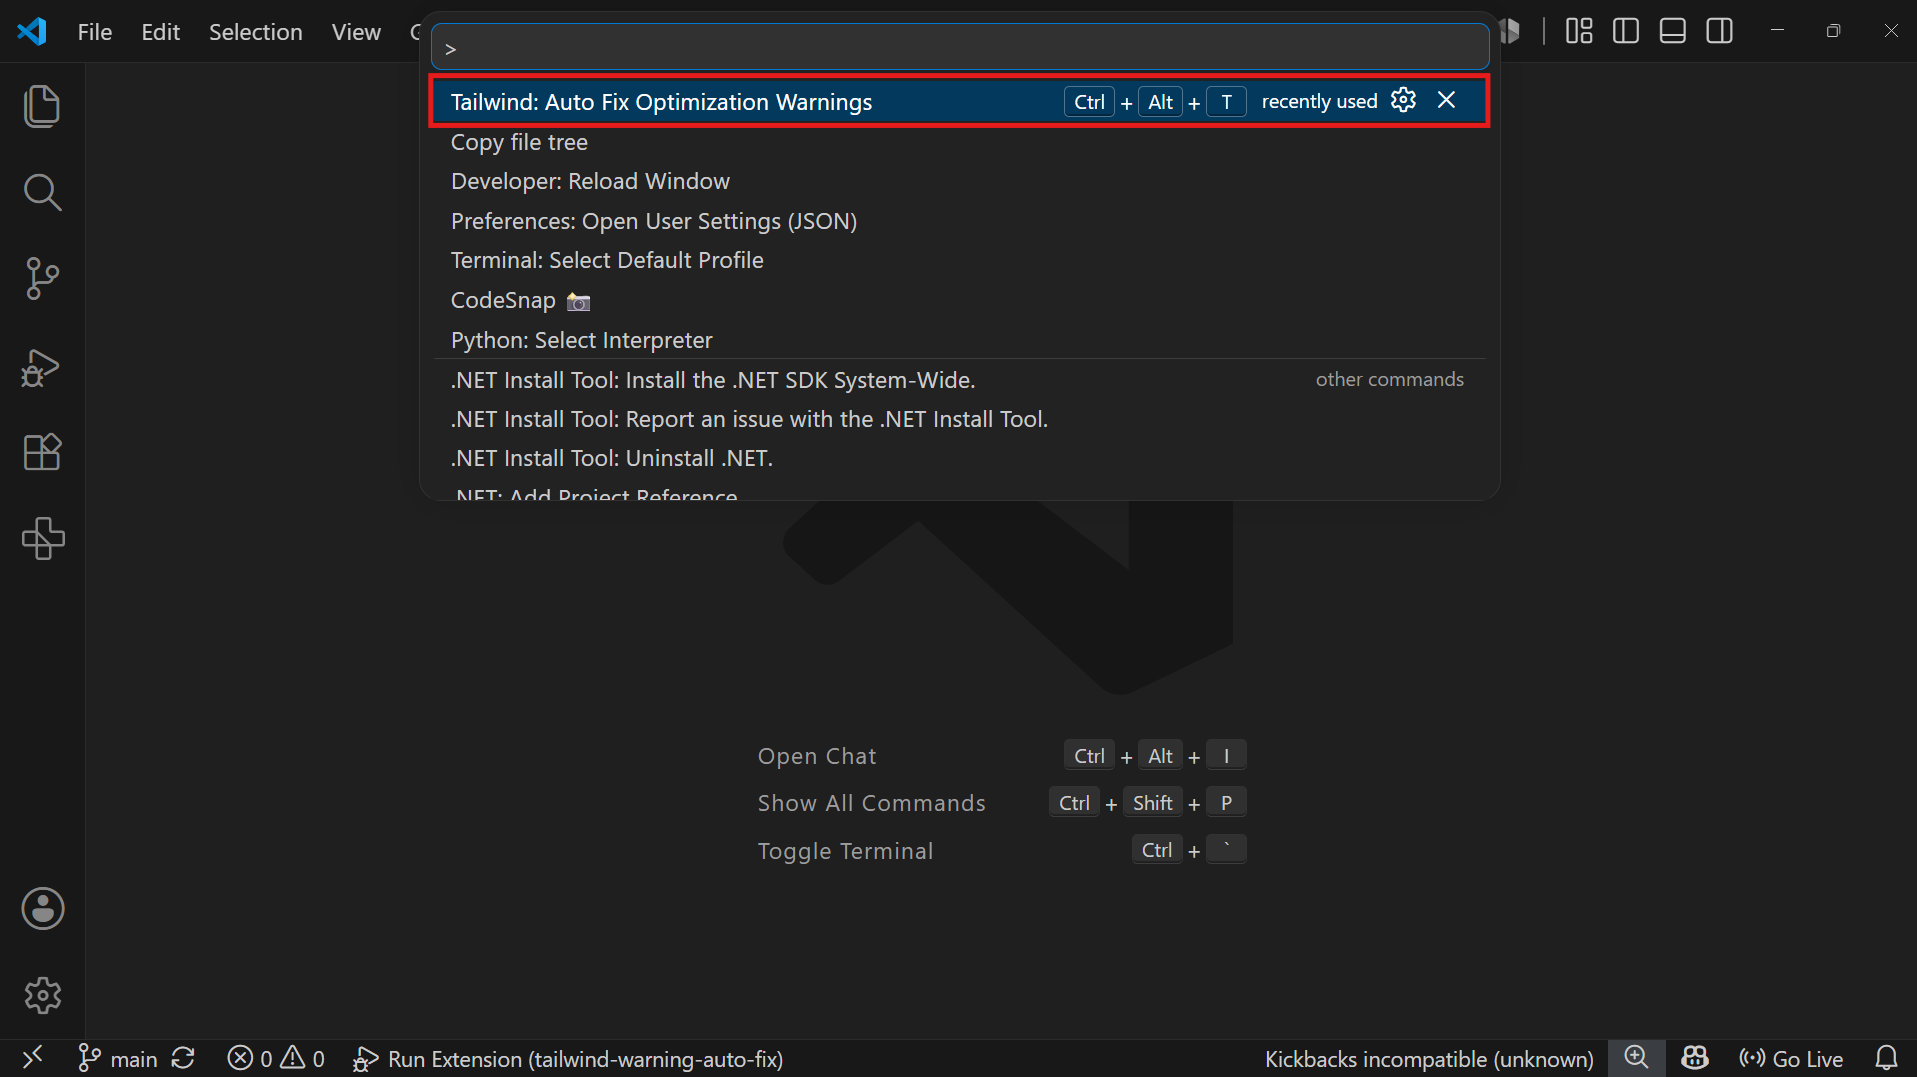
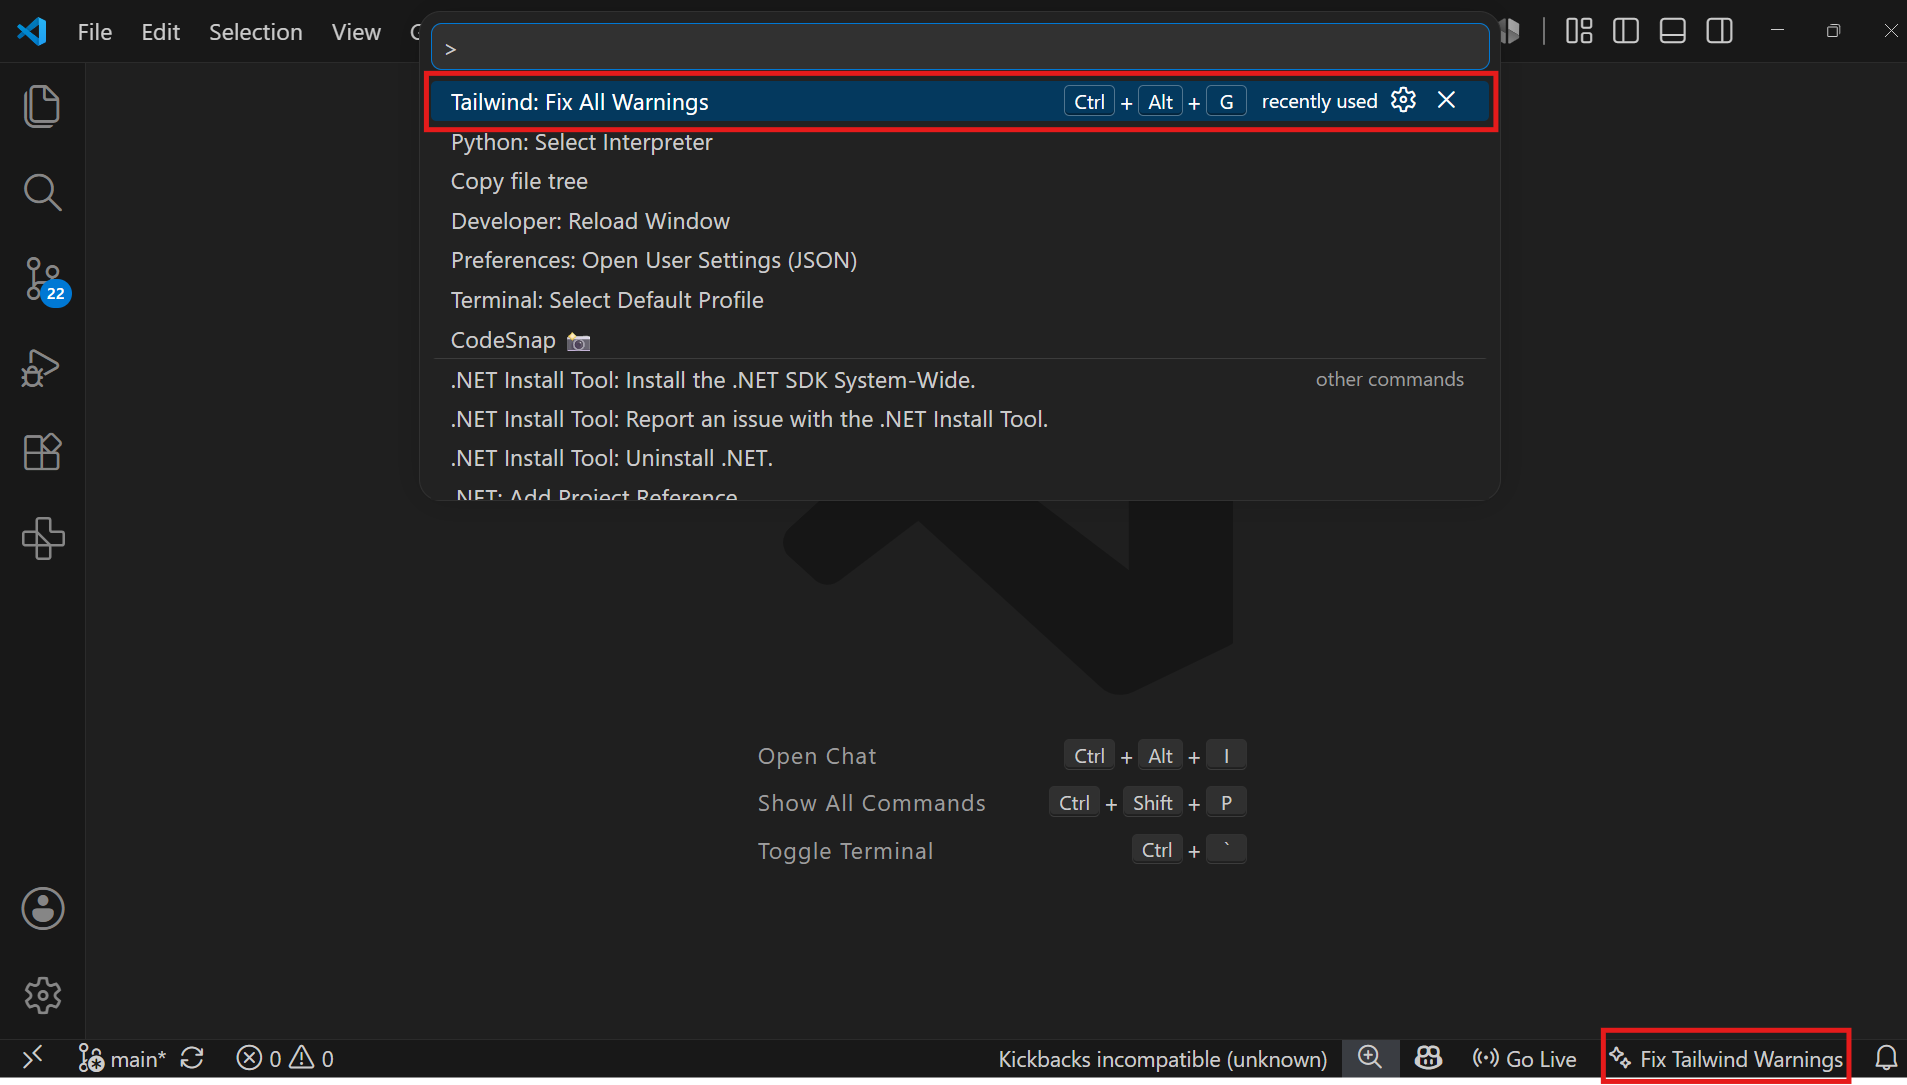
Configure Core Platform Environment And Project Documentation Assets

diff --git a/README.md b/README.md
@@ -2,7 +2,7 @@
 
 Automatically fix every Tailwind CSS optimization warning in the active file with a single command — no more clicking Quick Fix one class at a time.
 
-![Version](https://img.shields.io/badge/version-0.2.0-blue)
+![Version](https://img.shields.io/badge/version-0.4.2-blue)
 ![License](https://img.shields.io/badge/license-MIT-green)
 
 ---
@@ -16,11 +16,17 @@ The class `max-w-[1600px]` can be written as `max-w-400`
 The class `!bg-surface` can be written as `bg-surface!`
 ```
 
+...and sometimes flags class conflicts, like:
+
+```
+'text-left' applies the same CSS properties as 'text-center'.
+```
+
 Fixing these one at a time via the lightbulb Quick Fix menu is tedious in any file with more than a handful of warnings.
 
 ## The Solution
 
-**Tailwind Warning Auto-Fix** reads every optimization warning already produced by Tailwind CSS IntelliSense in the active file and applies all suggested fixes at once, atomically, with full undo support.
+**Tailwind Warning Auto-Fix** reads every warning already produced by Tailwind CSS IntelliSense in the active file and resolves it — automatically for optimizations, interactively for conflicts — in one command, atomically, with full undo support.
 
 It does **not** reimplement Tailwind's optimization logic — it's a thin, safe automation layer over diagnostics that already exist.
 
@@ -31,27 +37,24 @@ It does **not** reimplement Tailwind's optimization logic — it's a thin, safe 
 - ✅ **One command** fixes optimization warnings AND walks you through class conflicts — no separate commands to remember
 - ✅ Fixes **all** Tailwind optimization warnings in the active file automatically, after one confirmation
 - ✅ Interactively resolves **class conflicts** (e.g. `text-left` vs `text-center`) — always asks which class should stay, since these are NOT safe to auto-resolve (see "Optimization vs. Conflicts" below)
-- ✅ Applies everything in a single `WorkspaceEdit` — one Undo (`Cmd/Ctrl+Z`) reverts the entire operation, optimizations and conflict resolutions together
+- ✅ **Auto Fix on Save** (opt-in) — silently fixes optimization warnings every time you save, folded directly into the save itself
+- ✅ Applies everything in a single `WorkspaceEdit` — one Undo (`Cmd/Ctrl+Z`) reverts the entire operation
 - ✅ Uses each diagnostic's exact source range — never a document-wide text search, so it's safe even when the same class string appears multiple times in a file
 - ✅ Works in any file type supported by Tailwind CSS IntelliSense (JS, TS, JSX, TSX, HTML, Vue, Astro, Svelte, PHP, Blade, MDX, and more) — no hardcoded language list
+- ✅ Status bar button and keyboard shortcut available immediately on VS Code startup — no need to run the command once first
 - ✅ Gracefully skips and reports any warning it can't safely parse, instead of failing the whole batch
 
-![Screenshot placeholder: Before/after diff view](./images/screenshot-before-after.png)
+## Optimization vs. Conflicts — why they're handled differently
 
-<!-- ![GIF placeholder: Running the command end-to-end](./images/demo.gif) -->
+Tailwind CSS IntelliSense produces two distinct kinds of warnings, and even though **one command** (and, optionally, Auto Fix on Save) handles both, they're resolved very differently internally:
 
-## Optimization vs. Conflicts — why they're handled differently within the same command
-
-Tailwind CSS IntelliSense produces two distinct kinds of warnings, and even though **one command** now handles both, they're resolved very differently internally:
-
-|             | Optimization warnings                                          | Conflict warnings                                                                                                                                                |
-| ----------- | -------------------------------------------------------------- | ---------------------------------------------------------------------------------------------------------------------------------------------------------------- |
-| Example     | `` The class `max-w-[1600px]` can be written as `max-w-400` `` | `'text-left' applies the same CSS properties as 'text-center'.`                                                                                                  |
-| Meaning     | Two forms that render **identically**                          | Two **different**, mutually exclusive values for the same property — only one actually applies                                                                   |
-| Applied how | Automatically, after one confirmation covering all of them     | **One decision per conflict**, via Quick Pick — never automatic, even though it's the same command                                                               |
-| Why         | Safe — no visual change is possible                            | Removing the wrong side would silently change how the page renders, since Tailwind's effective precedence isn't based on the order classes appear in your markup |
-
-Both categories are still combined into a single atomic edit at the end, so you only ever hit Undo once no matter how many of each type were involved.
+| | Optimization warnings | Conflict warnings |
+|---|---|---|
+| Example | `` The class `max-w-[1600px]` can be written as `max-w-400` `` | `'text-left' applies the same CSS properties as 'text-center'.` |
+| Meaning | Two forms that render **identically** | Two **different**, mutually exclusive values for the same property — only one actually applies |
+| Applied how | Automatically | **One decision per conflict**, via Quick Pick — never automatic |
+| On save (if enabled) | Fixed silently | **Never touched** — always requires the manual command |
+| Why | Safe — no visual change is possible | Removing the wrong side would silently change how the page renders, since Tailwind's effective precedence isn't based on the order classes appear in your markup |
 
 ---
 
@@ -73,7 +76,7 @@ Both categories are still combined into a single atomic edit at the end, so you 
 ### From a `.vsix` file
 
 ```bash
-code --install-extension tailwind-warning-auto-fix-0.0.1.vsix
+code --install-extension tailwind-warning-auto-fix-0.4.2.vsix
 ```
 
 ---
@@ -84,7 +87,7 @@ Open a file containing Tailwind classes with active warnings (visible in the Pro
 
 - **Command Palette** — `Cmd/Ctrl+Shift+P` → run `Tailwind: Fix All Warnings`
 - **Keyboard shortcut** — `Ctrl+Alt+G` (Windows/Linux) or `Cmd+Alt+G` (Mac), while focused in the editor
-- **Status bar button** — click **✨ Fix Tailwind Warnings** in the bottom-right status bar
+- **Status bar button** — click **✨ Fix Tailwind Warnings** in the bottom-right status bar — visible immediately on startup, no prior command run needed
 
 All three trigger the identical flow:
 
@@ -96,32 +99,68 @@ All three trigger the identical flow:
 
 ### What you'll see
 
-| Situation                   | Message                                                                                                  |
-| --------------------------- | -------------------------------------------------------------------------------------------------------- |
-| No file open                | `Open a file first.`                                                                                     |
-| No warnings in the file     | `No Tailwind warnings found.`                                                                            |
-| Optimization warnings found | `Found 18 Tailwind optimization warnings. Apply all fixes?`                                              |
-| A class conflict found      | Quick Pick: `Keep 'text-left', remove 'text-center'` / `Keep 'text-center', remove 'text-left'` / `Skip` |
-| Everything applied          | `18 optimizations fixed, 2 conflicts resolved.`                                                          |
-| Some warnings unparsable    | `18 optimizations fixed, 2 conflicts resolved. 3 warnings skipped.`                                      |
+| Situation | Message |
+|---|---|
+| No file open | `Open a file first.` |
+| No warnings in the file | `No Tailwind warnings found.` |
+| Optimization warnings found | `Found 18 Tailwind optimization warnings. Apply all fixes?` |
+| A class conflict found | Quick Pick: `Keep 'text-left', remove 'text-center'` / `Keep 'text-center', remove 'text-left'` / `Skip` |
+| Everything applied | `18 optimizations fixed, 2 conflicts resolved.` |
+| Some warnings unparsable | `18 optimizations fixed, 2 conflicts resolved. 3 warnings skipped.` |
 
 ---
 
 ## Commands
 
-| Command                      | Shortcut                   | Description                                                                                                                                                                                                                                                                                                       |
-| ---------------------------- | -------------------------- | ----------------------------------------------------------------------------------------------------------------------------------------------------------------------------------------------------------------------------------------------------------------------------------------------------------------- |
+| Command | Shortcut | Description |
+|---|---|---|
 | `Tailwind: Fix All Warnings` | `Ctrl+Alt+G` / `Cmd+Alt+G` | Scans the active file for both optimization warnings and class conflicts. Applies optimizations automatically (after one confirmation) and walks through conflicts one at a time via Quick Pick — all combined into a single, atomic edit. Also available via the **✨ Fix Tailwind Warnings** status bar button. |
 
 ---
 
 ## Settings
 
-| Setting                                    | Type    | Default | Description                                             |
-| ------------------------------------------ | ------- | ------- | ------------------------------------------------------- |
-| `tailwindAutoOptimizer.confirmBeforeApply` | boolean | `true`  | Show a confirmation dialog before applying all fixes    |
-| `tailwindAutoOptimizer.showSummary`        | boolean | `true`  | Show a summary notification after fixes are applied     |
-| `tailwindAutoOptimizer.autoFixOnSave`      | boolean | `false` | Reserved for a future release — currently has no effect |
+| Setting | Type | Default | Description |
+|---|---|---|---|
+| `tailwindAutoOptimizer.confirmBeforeApply` | boolean | `true` | Show a confirmation dialog before applying optimization fixes when running the manual command. Has no effect on Auto Fix on Save, which never shows a dialog. |
+| `tailwindAutoOptimizer.showSummary` | boolean | `true` | Show a summary notification after `Tailwind: Fix All Warnings` finishes. Has no effect on Auto Fix on Save, which is always silent (see below). |
+| `tailwindAutoOptimizer.autoFixOnSave` | boolean | `false` | Automatically fix optimization warnings every time you save a file (see "Auto Fix on Save" below). |
+| `tailwindAutoOptimizer.conflictResolutionStrategy` | `"ask"` \| `"keepFirst"` \| `"keepLast"` \| `"skip"` | `"ask"` | How to resolve class conflicts (see "Conflict Resolution Strategy" below). |
+
+---
+
+## Conflict Resolution Strategy
+
+By default (`"ask"`), resolving conflicts still asks — but **only once per unique pair of class names**, not once per occurrence. If `text-left`/`text-center` conflicts on 10 different elements, you'll be asked once, and that answer is reused automatically for all 10. This removes most of the repetition without any safety trade-off — every removal still traces back to an explicit decision you made about that specific pair.
+
+If you want zero prompts at all, two automatic modes are available:
+
+- `"keepFirst"` — keeps whichever class appears earlier in the markup, removes the other, for every conflict, no questions asked.
+- `"keepLast"` — same, but keeps whichever appears later.
+- `"skip"` — never touches conflicts at all; they stay visible in the Problems panel only.
+
+**Read this before enabling `keepFirst`/`keepLast`:** these are *not* a safe shortcut. Tailwind's actual rendered precedence between two conflicting classes is decided by Tailwind's internal stylesheet generation order — it has nothing to do with which class appears first in your `class="..."` attribute. Choosing an automatic mode can silently keep the class that has no visual effect and delete the one that was actually rendering, changing your page's appearance without any warning. Enable these only if you've reviewed your specific conflicts once already and are confident about the pattern, or you're comfortable checking the result visually afterward.
+
+---
+
+## Auto Fix on Save
+
+Enable `tailwindAutoOptimizer.autoFixOnSave` in Settings to have optimization warnings fixed automatically every time you save — no command, no shortcut, no confirmation dialog needed.
+
+```json
+{
+  "tailwindAutoOptimizer.autoFixOnSave": true
+}
+```
+
+**What happens on save:**
+- Every optimization warning in the file is fixed, folded directly into the same save operation (via VS Code's `onWillSaveTextDocument`/`waitUntil` API) — not a separate edit afterward, so there's no risk of re-dirtying the file or triggering a redundant second save.
+- This is completely **silent** — no popup, no status bar message. Every action is still recorded in the **Output panel → "Tailwind Warning Auto-Fix"** channel if you want to check what happened.
+- A save with nothing to fix does nothing at all.
+
+**What does NOT happen on save — by design:**
+- **Class conflicts are never auto-resolved on save**, regardless of this setting. Deciding which of two conflicting classes should stay always requires a judgment call (see "Optimization vs. Conflicts" above) — an interactive prompt on every save (especially with VS Code's own Auto Save enabled, which can fire every second or so while typing) would be disruptive, and guessing automatically risks a silent visual regression. Unresolved conflicts remain visible in the Problems panel; run `Tailwind: Fix All Warnings` whenever you're ready to address them.
+- No modal dialog ever appears during a save, regardless of `confirmBeforeApply` — that setting only applies to the manual command.
 
 ---
 
@@ -130,19 +169,20 @@ All three trigger the identical flow:
 This extension never re-implements Tailwind's class-optimization logic, parses JSX, or builds an AST. Instead, for each diagnostic in the active file, it:
 
 1. Reads existing diagnostics via `vscode.languages.getDiagnostics()` — no document scanning.
-2. Filters to those matching Tailwind CSS IntelliSense's optimization-warning format.
-3. Extracts the original and suggested class names from the diagnostic message text.
-4. Replaces text using the diagnostic's own `range` — never a text search — so the correct occurrence is always targeted, even with duplicate class names elsewhere in the file.
-5. Batches every replacement into one `WorkspaceEdit` and applies it atomically.
+2. Filters to those matching Tailwind CSS IntelliSense's optimization or conflict warning formats.
+3. Extracts the relevant class names from each diagnostic's message text.
+4. Builds edits using each diagnostic's own `range` — never a text search — so the correct occurrence is always targeted, even with duplicate class names elsewhere in the file.
+5. Batches every edit into one `WorkspaceEdit` (or, for Auto Fix on Save, one `TextEdit[]` folded into the save itself) and applies it atomically.
 
 ---
 
 ## Known Limitations
 
-- Only processes the **currently active file** — workspace-wide or folder-wide fixing is on the roadmap (see below).
+- Only processes the **currently active file** (or, for Auto Fix on Save, whichever file was just saved) — workspace-wide or folder-wide fixing is on the roadmap.
 - Relies entirely on Tailwind CSS IntelliSense's diagnostics; if that extension is disabled or hasn't finished analyzing the file yet, no warnings will be found.
-- If Tailwind CSS IntelliSense changes its warning message wording in a future release, parsing may need an update (tracked in a single, isolated file — see Contributing).
+- If Tailwind CSS IntelliSense changes its warning message wording in a future release, parsing may need an update (tracked in two small, isolated parser files — see Contributing).
 - Diagnostics with overlapping source ranges (should not normally occur) are conservatively excluded rather than risking a corrupted edit.
+- The extension now activates shortly after VS Code starts (`onStartupFinished`) rather than waiting for the command to be run manually — a small, one-time startup cost needed so the status bar button and Auto Fix on Save are both ready immediately, the same tradeoff most save-hooking formatter/linter extensions make.
 
 ---
 
@@ -150,13 +190,10 @@ This extension never re-implements Tailwind's class-optimization logic, parses J
 
 Planned for future versions:
 
-- [ ] Auto Fix on Save
 - [ ] Workspace-wide "Fix All" command
 - [ ] Folder-level fixing
 - [ ] Multi-root workspace support
 - [ ] `CodeActionProvider` integration (fix warnings via the lightbulb menu directly)
-- [ ] Fix All Quick Fix action
-- [ ] Status bar button
 - [ ] Progress notification for large files
 - [ ] Marketplace icon and branding polish
 - [ ] Optional telemetry
@@ -213,6 +250,12 @@ npx vsce login <publisher-name>
 npx vsce publish
 ```
 
+Or publish to [Open VSX](https://open-vsx.org) (no Azure/PAT required, just GitHub + a free Eclipse Foundation account):
+
+```bash
+npm run publish:openvsx
+```
+
 See [VS Code's official publishing guide](https://code.visualstudio.com/api/working-with-extensions/publishing-extension) for full details on creating a publisher and Personal Access Token.
 
 ---
@@ -230,10 +273,11 @@ Contributions are welcome. Please:
 
 ```
 src/
-├── commands/       # Orchestrates user-triggered flows
+├── commands/       # Orchestrates the user-triggered "Fix All Warnings" flow
 ├── services/       # Diagnostics reading, replacement building, config access
-├── parsers/        # Pure, dependency-free message parsing
-├── utils/          # Logging and notification helpers
+├── parsers/        # Pure, dependency-free message parsing (optimization + conflict)
+├── listeners/       # Background event listeners (Auto Fix on Save)
+├── utils/          # Logging, notification, and status bar helpers
 ├── types/          # Shared interfaces
 ├── constants/      # Messages, regex patterns, command IDs
 └── extension.ts    # Composition root (activate/deactivate)
@@ -243,4 +287,4 @@ src/
 
 ## License
 
-MIT — see [LICENSE](./LICENSE).
+MIT — see [LICENSE](https://github.com/KedarGhadyalji/tailwind-warning-auto-fix?tab=MIT-1-ov-file).

diff --git a/CHANGELOG.md b/CHANGELOG.md
@@ -9,10 +9,41 @@ and this project adheres to [Semantic Versioning](https://semver.org/spec/v2.0.0
 
 ### Planned
 
-- Auto Fix on Save
 - Workspace-wide Fix All command
 - CodeActionProvider / lightbulb integration
 - Unit and integration test suite
+
+## [0.4.2]
+
+### Fixed
+
+- Removed a broken screenshot placeholder image reference in the README (`./images/screenshot-before-after.png`, which was never a real file) — this is what was actually failing to render on the Marketplace listing page. Removed the GIF placeholder line for the same reason.
+- Updated stale version references in the README (badge and install command).
+
+## [0.4.1]
+
+### Fixed
+
+- Replaced `images/icon.png` with a freshly generated, technically-verified PNG (RGB, 128×128, no ICC color profile, no alpha channel) as a precaution against common Marketplace icon-rendering causes — turned out not to be the actual issue (see 0.4.2); the real problem was the broken README image above.
+- Fixed the LICENSE link in the README to point to the real published repository instead of a relative `./LICENSE` path (which doesn't resolve correctly everywhere the README is rendered, e.g. the Marketplace listing page).
+
+## [0.4.0]
+
+### Added
+
+- **Conflict resolution grouping**: when resolving class conflicts, the same pair of class names is now asked about only ONCE, no matter how many elements it appears on — the answer is reused for every occurrence automatically. Pure UX improvement, no safety trade-off (every removal still traces back to an explicit decision about that pair).
+- New setting `tailwindAutoOptimizer.conflictResolutionStrategy` (`"ask"` default, plus `"keepFirst"`, `"keepLast"`, `"skip"`) for users who want zero prompts. `keepFirst`/`keepLast` are explicitly documented as an accuracy trade-off, not a safe default — see README's "Conflict Resolution Strategy" section for why markup order doesn't reliably predict Tailwind's actual rendered precedence.
+
+## [0.3.0]
+
+### Added
+
+- **Auto Fix on Save** (`tailwindAutoOptimizer.autoFixOnSave`, default `false`): optimization warnings are now fixed automatically as part of the save operation itself, via `onWillSaveTextDocument`/`waitUntil` — folded into the same disk write, no separate edit and no risk of re-dirtying the file. No confirmation dialog and no notification; this is intentionally silent, matching how comparable "fix on save" tooling (ESLint `--fix`, Prettier format-on-save) behaves. Every action is still logged to the "Tailwind Warning Auto-Fix" Output channel.
+- Class conflicts are **never** auto-resolved on save, regardless of this setting — this remains a deliberate, always-interactive decision (see 0.1.0's notes). Unresolved conflicts stay visible in the Problems panel; run `Tailwind: Fix All Warnings` manually to address them.
+
+### Changed
+
+- The extension now activates via `onStartupFinished` instead of waiting for the command to be invoked once — fixes the status bar button and keyboard shortcut not being available until after a manual first run, and ensures the Auto Fix on Save listener is registered before your first save.
 
 ## [0.2.0]
 